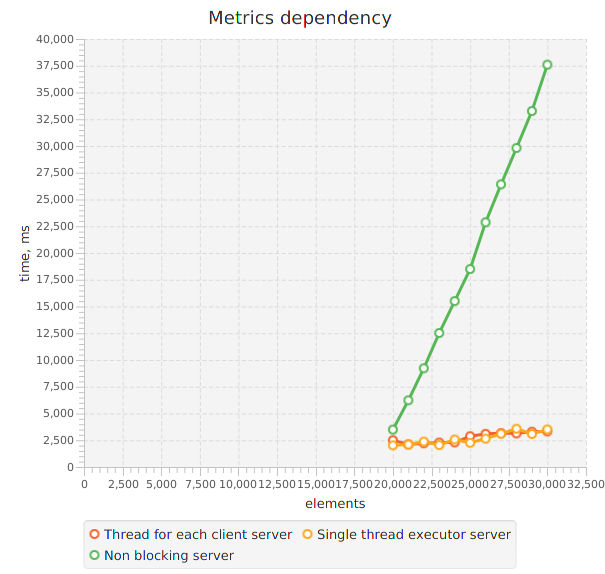
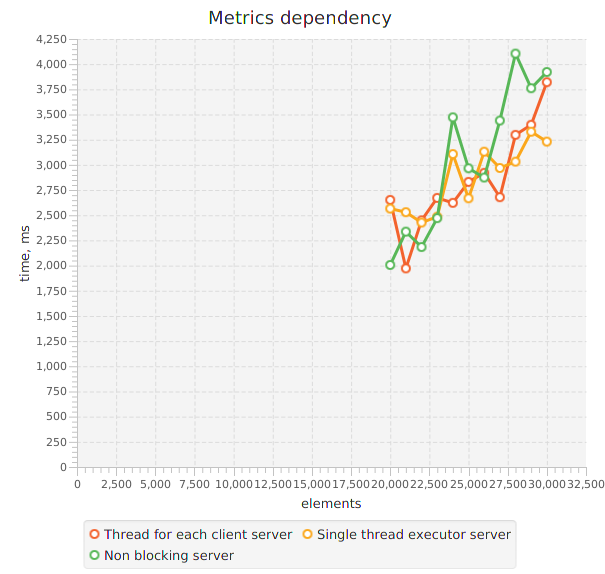
TestingArchitectures: charts fixed one more time.

diff --git a/ServerArchitectures/src/main/java/ru/spbau/mit/tukh/serverArchitectures/server/NonBlockingServer.java b/ServerArchitectures/src/main/java/ru/spbau/mit/tukh/serverArchitectures/server/NonBlockingServer.java
@@ -51,6 +51,10 @@ public class NonBlockingServer extends Server {
 
     public void startTestingIteration() throws IOException, InterruptedException {
         try {
+            handlingRequestTimeOnServer = 0;
+            handlingClientTimeOnServer = 0;
+            averageRequestTimeOnClient = 0;
+
             testingIsOver = new AtomicBoolean(false);
             clientsFinished = new AtomicInteger(0);
             readRegisterQueue.clear();
